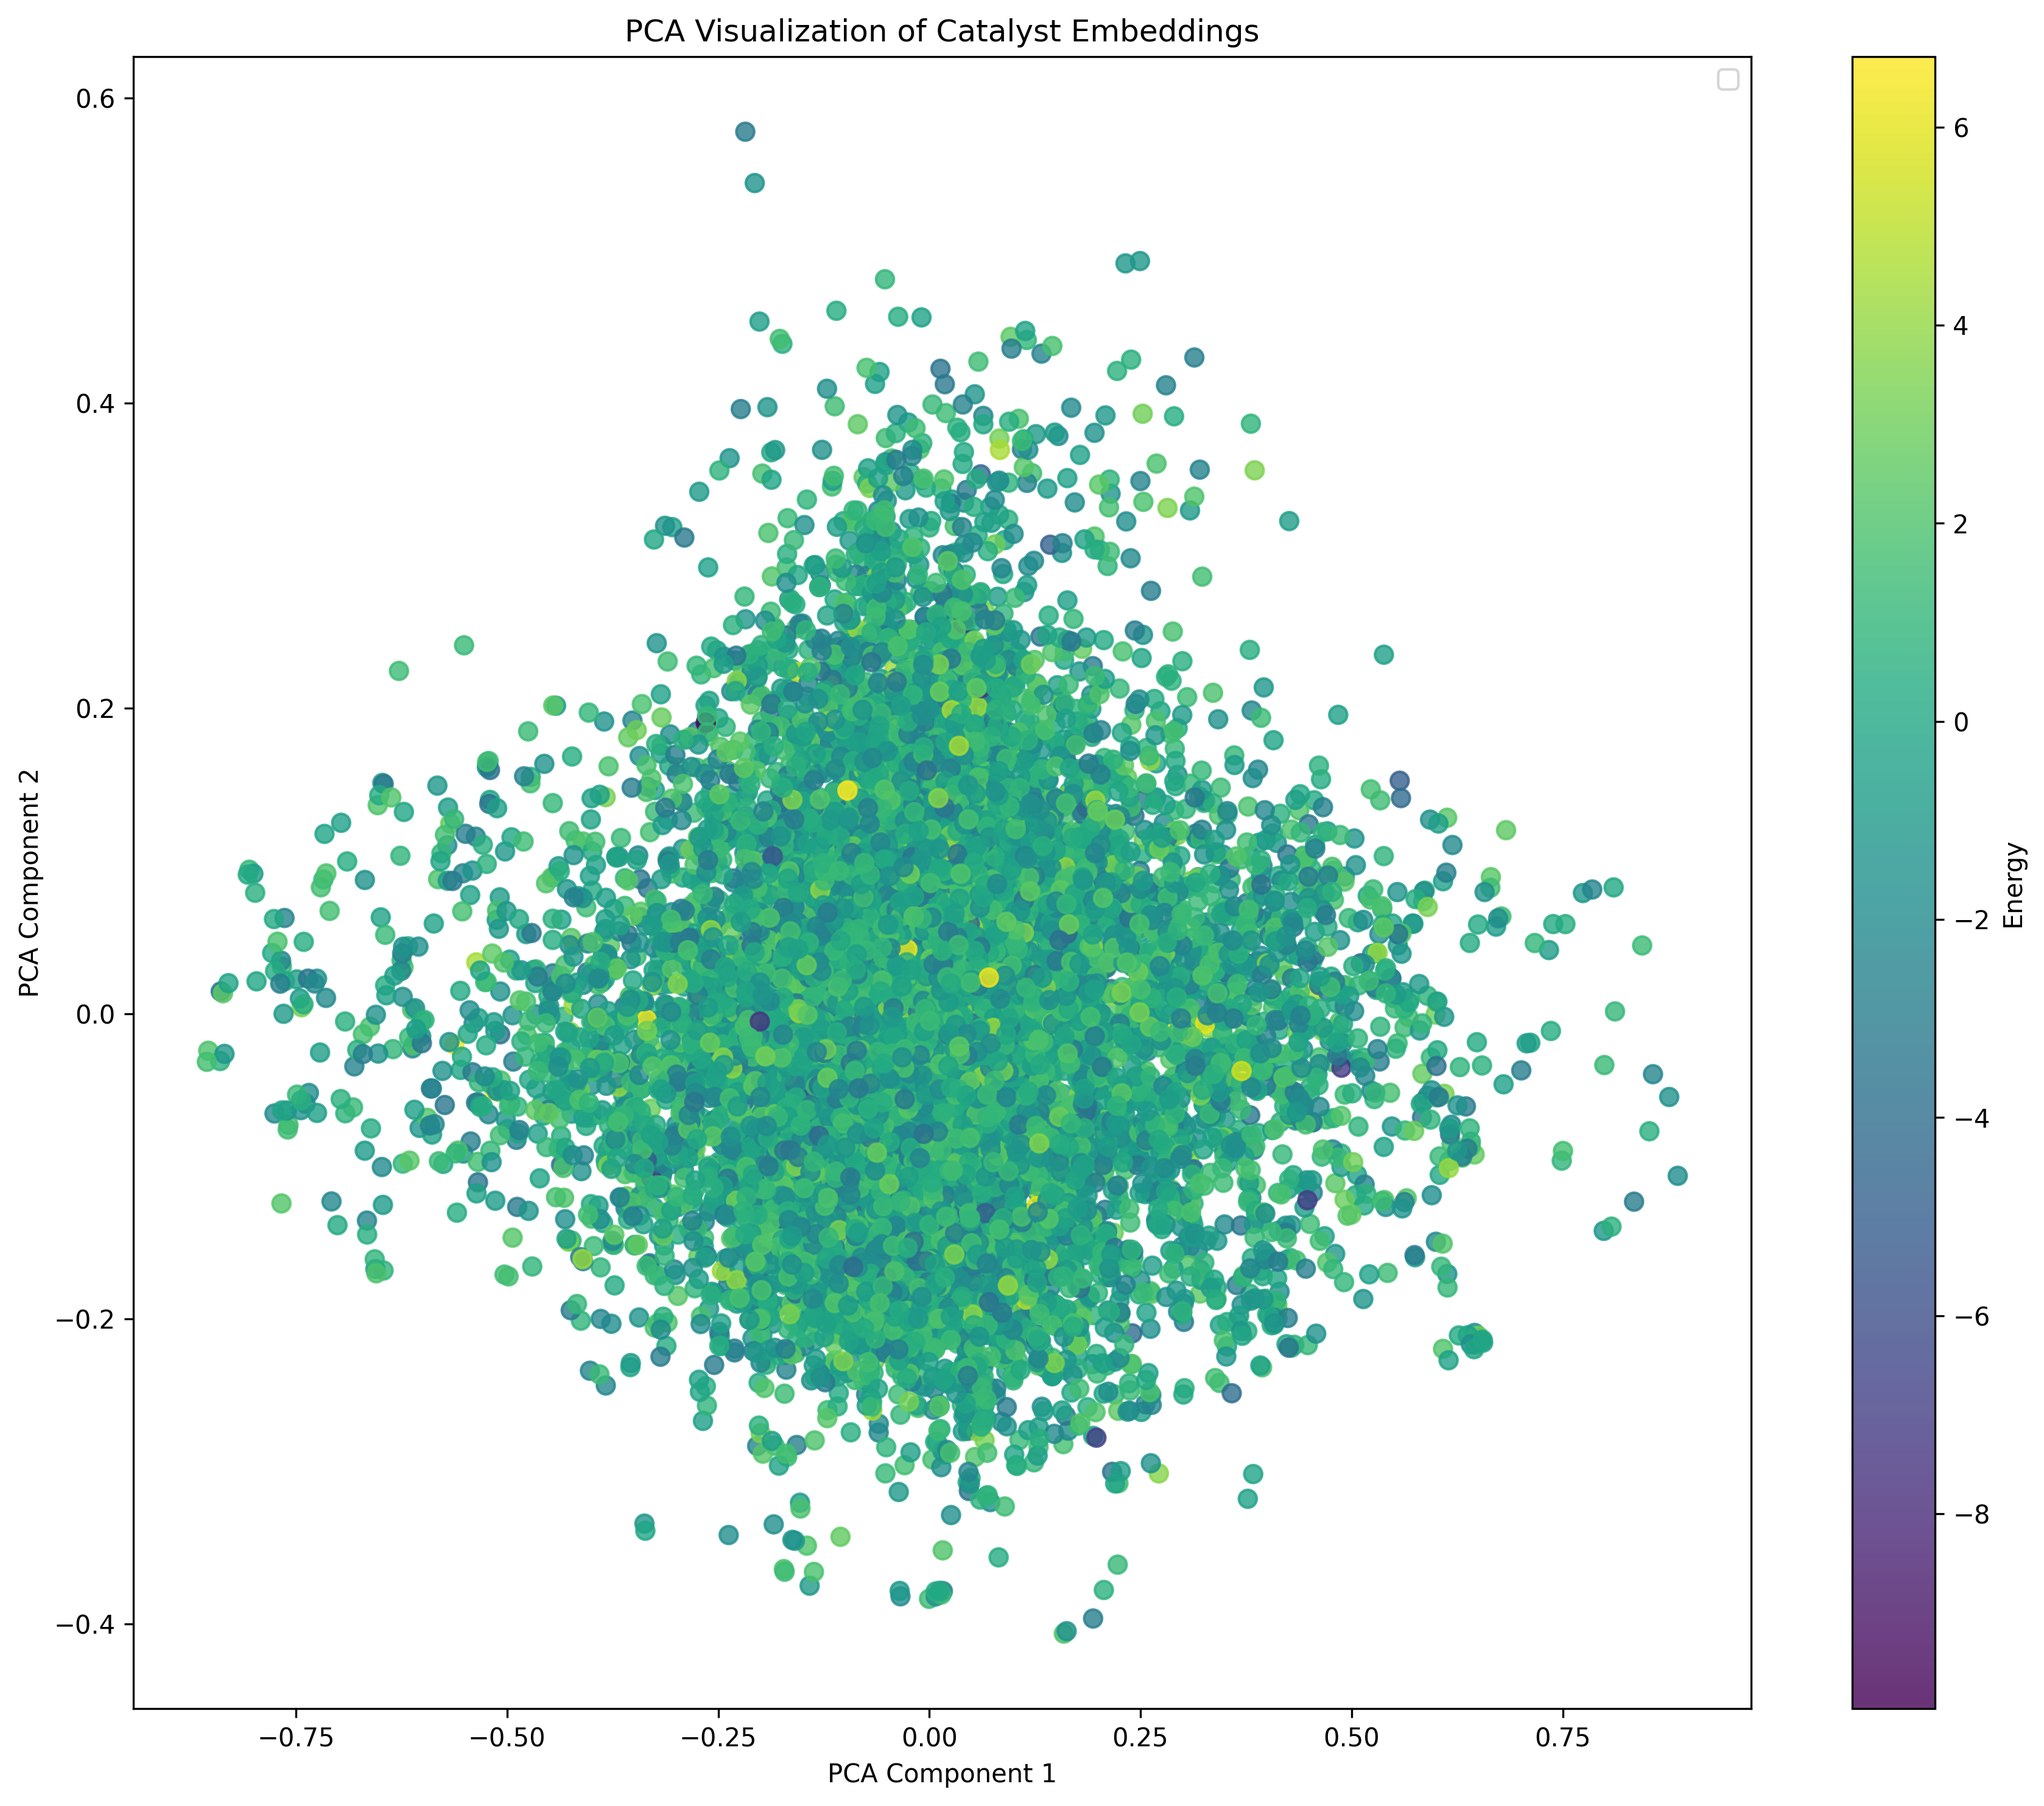
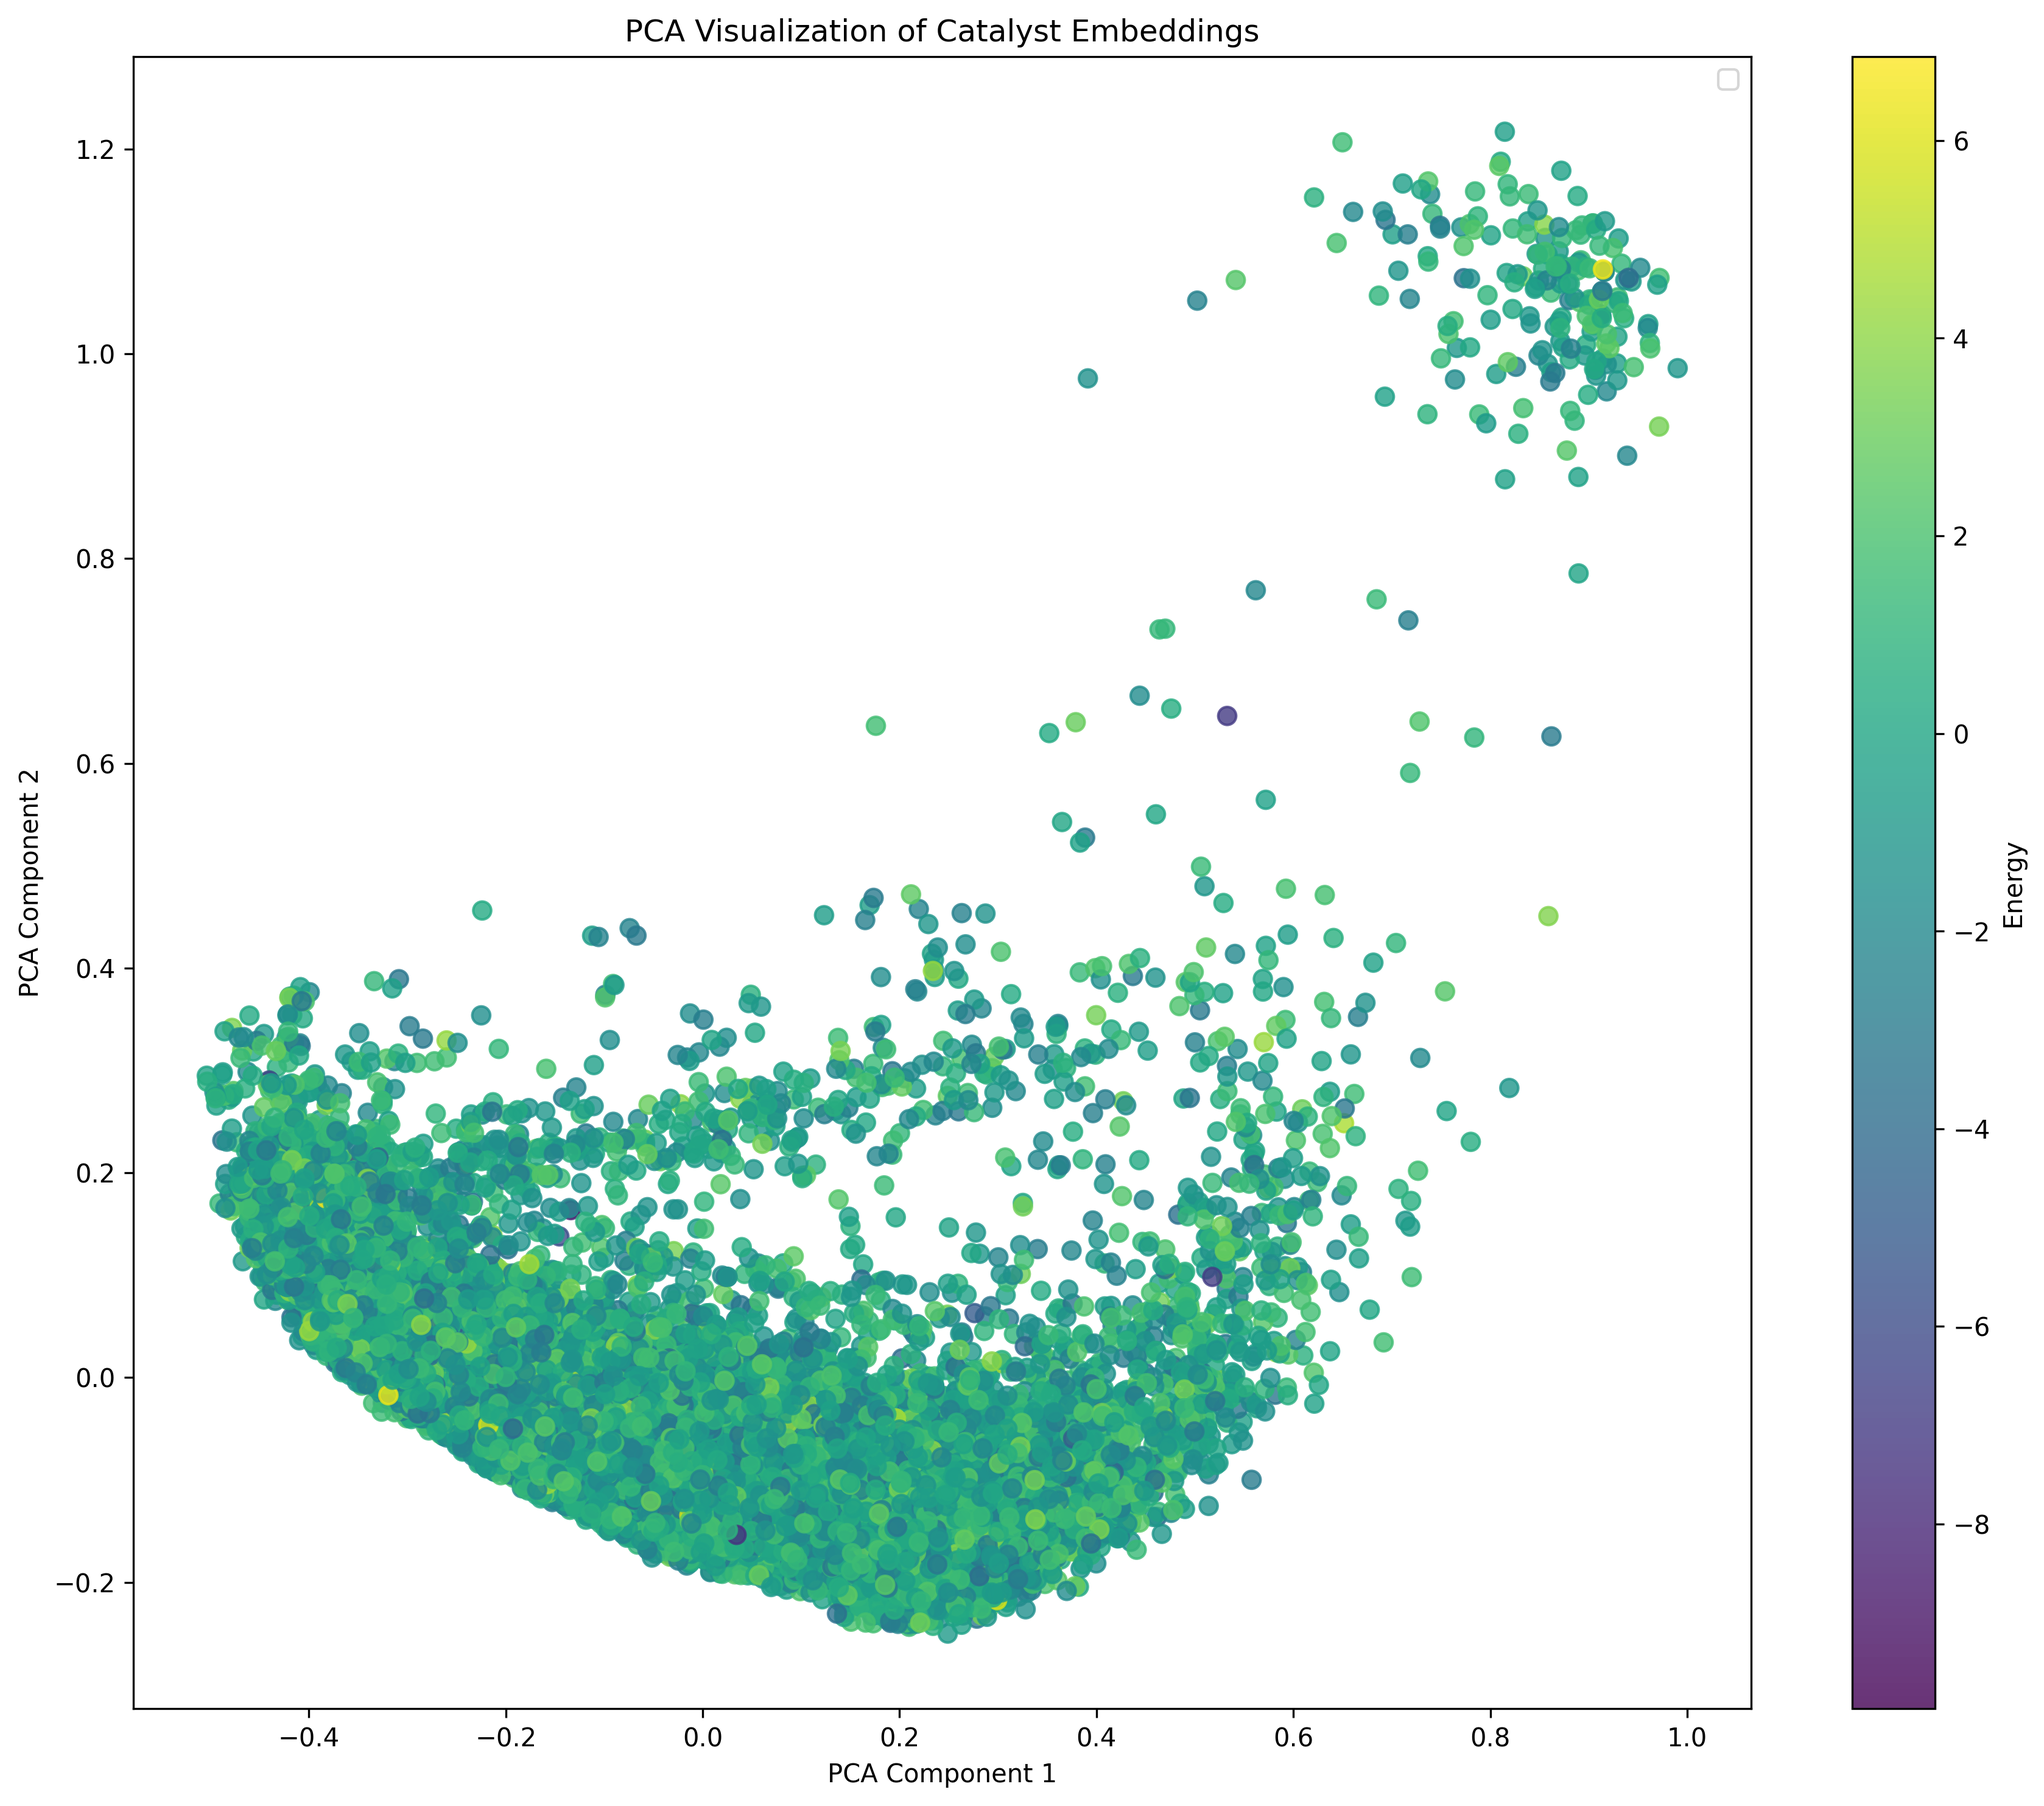
Add files via upload

diff --git a/analysis_latent.py b/analysis_latent.py
@@ -292,96 +292,46 @@ def create_tsne_comparison(latents, energy, highlight_range=False):
     
     return fig
 
-def embedding_pooling(embeddings: np.ndarray) -> np.ndarray:
-    """
-    Pool embeddings with awareness of frequency bands using weighted averaging.
-    Handles batched input embeddings.
-    
-    Args:
-        embeddings (np.ndarray): Input embedding array of shape (N, 25, 128) where:
-            - N is the number of samples
-            - 25 channels contain frequency band information organized as [0e, 1o, 2e, 3o, 4e]
-            - 128 is the embedding dimension
-            The channels are distributed as [1, 3, 5, 7, 9] channels per band.
-        
-    Returns:
-        np.ndarray: Normalized global embeddings of shape (N, 128)
-        
-    Raises:
-        ValueError: If embedding shape is incorrect or doesn't match expected dimensions
-    """
-    # Input validation
-    if not isinstance(embeddings, np.ndarray):
-        raise ValueError("Input must be a numpy array")
-    if len(embeddings.shape) != 3 or embeddings.shape[1:] != (25, 128):
-        raise ValueError(f"Expected shape (N, 25, 128), got {embeddings.shape}")
-    
-    # Define channel sizes for each frequency band
-    channel_sizes = [1, 3, 5, 7, 9]  # 0e, 1o, 2e, 3o, 4e
-    if sum(channel_sizes) != embeddings.shape[1]:
-        raise ValueError("Channel sizes don't match input dimensions")
-    
-    # Initialize output array
-    batch_size = embeddings.shape[0]
-    global_embeddings = np.zeros((batch_size, embeddings.shape[2]), dtype=embeddings.dtype)
-    
-    # Process each frequency band with weighted averaging
-    channel_idx = 0
-    for size in channel_sizes:
-        end_idx = channel_idx + size
-        band_channels = embeddings[:, channel_idx:end_idx]
-        # Use weighted average based on band size
-        global_embeddings += np.mean(band_channels, axis=1) / len(channel_sizes)
-        channel_idx = end_idx
-    
-    # Normalize each embedding (with epsilon to prevent division by zero)
-    norms = np.linalg.norm(global_embeddings, axis=1, keepdims=True)
-    global_embeddings = np.where(norms > 1e-12, global_embeddings / norms, global_embeddings)
-    
-    return global_embeddings
 
 # Example usage with iterations
-modes = [128]
-highlight_options = [True]
+modes = [25, 128]
+highlight_options = [True, False]
 
 for mode in modes:
     # Set filename based on mode
     if mode == 25:
-        filename = 'save_logs/9066/s2ef_predictions.npz'
+        filename = 'save_logs/9066/s2ef_predictions.npz' # 31M
     elif mode == 128:
-        filename = 'save_logs/2287813/s2ef_predictions.npz'
+        filename = 'save_logs/2297083/s2ef_predictions.npz' # 153M
     
     # Load and reshape data
     data = np.load(filename)
-    latents = data['latents'].reshape(-1, 25, 128)
+    latents = data['latents'].reshape(-1, mode)
     energy = data['energy'].reshape(-1, 1)
     print(f"Processing mode {mode}, shape: {latents.shape}, {energy.shape}")
-    
-    # Pool the embeddings first
-    pooled_embeddings = embedding_pooling(latents)  # shape: (N, 128)
     
     for highlight in highlight_options:
         highlight_str = "highlighted" if highlight else "all"
         print(f"  Creating visualizations with highlight={highlight}")
         
-        # Use pooled_embeddings for all visualizations
-        fig1 = visualize_embeddings(pooled_embeddings, energy, method='pca', highlight_range=highlight)
+        # Use latents for all visualizations
+        fig1 = visualize_embeddings(latents, energy, method='pca', highlight_range=highlight)
         fig1.savefig(f'visuals/{mode}/catalyst_pca_{highlight_str}.png', dpi=300, bbox_inches='tight')
         plt.close(fig1)
         
-        fig2 = visualize_embeddings(pooled_embeddings, energy, method='tsne', highlight_range=highlight)
+        fig2 = visualize_embeddings(latents, energy, method='tsne', highlight_range=highlight)
         fig2.savefig(f'visuals/{mode}/catalyst_tsne_{highlight_str}.png', dpi=300, bbox_inches='tight')
         plt.close(fig2)
         
-        fig3 = create_multiple_visualizations(pooled_embeddings, energy, highlight_range=highlight)
+        fig3 = create_multiple_visualizations(latents, energy, highlight_range=highlight)
         fig3.savefig(f'visuals/{mode}/catalyst_multiple_{highlight_str}.png', dpi=300, bbox_inches='tight')
         plt.close(fig3)
         
-        fig5 = create_tsne_comparison(pooled_embeddings, energy, highlight_range=highlight)
+        fig5 = create_tsne_comparison(latents, energy, highlight_range=highlight)
         fig5.savefig(f'visuals/{mode}/catalyst_tsne_comparison_{highlight_str}.png', dpi=300, bbox_inches='tight')
         plt.close(fig5)
     
-    # Use pooled_embeddings for cluster analysis too
-    fig4 = analyze_embedding_clusters(pooled_embeddings, energy)
+    # Use latents for cluster analysis too
+    fig4 = analyze_embedding_clusters(latents, energy)
     fig4.savefig(f'visuals/{mode}/catalyst_cluster_analysis.png', dpi=300, bbox_inches='tight')
     plt.close(fig4)
